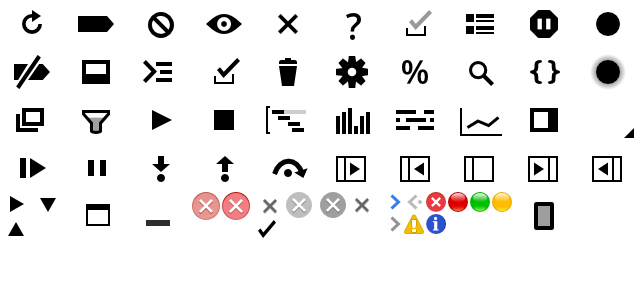
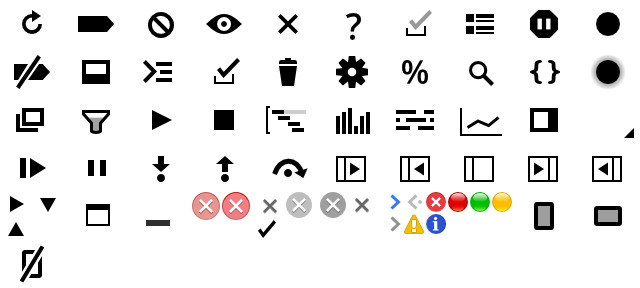
[DevTools] Added portrait and landscape screencast layouts.
BUG=311249

Review URL: https://codereview.chromium.org/107193009

git-svn-id: svn://svn.chromium.org/blink/trunk@164793 bbb929c8-8fbe-4397-9dbb-9b2b20218538

Changed region(s): [[0.9062, 0.6875, 0.9688, 0.8125], [0.0312, 0.8438, 0.0938, 0.9688]]

diff --git a/front_end/ScreencastView.js b/front_end/ScreencastView.js
@@ -32,63 +32,13 @@
  * @constructor
  * @extends {WebInspector.View}
  * @implements {WebInspector.DOMNodeHighlighter}
+ * @param {!Element} statusBarButtonPlaceholder
  */
-WebInspector.ScreencastView = function()
+WebInspector.ScreencastView = function(statusBarButtonPlaceholder)
 {
     WebInspector.View.call(this);
     this.registerRequiredCSS("screencastView.css");
-
-    this.element.classList.add("fill");
-    this.element.classList.add("screencast");
-
-    this._createNavigationBar();
-
-    this._viewportElement = this.element.createChild("div", "screencast-viewport hidden");
-    this._glassPaneElement = this.element.createChild("div", "screencast-glasspane hidden");
-
-    this._canvasElement = this._viewportElement.createChild("canvas");
-    this._canvasElement.tabIndex = 1;
-    this._canvasElement.addEventListener("mousedown", this._handleMouseEvent.bind(this), false);
-    this._canvasElement.addEventListener("mouseup", this._handleMouseEvent.bind(this), false);
-    this._canvasElement.addEventListener("mousemove", this._handleMouseEvent.bind(this), false);
-    this._canvasElement.addEventListener("mousewheel", this._handleMouseEvent.bind(this), false);
-    this._canvasElement.addEventListener("click", this._handleMouseEvent.bind(this), false);
-    this._canvasElement.addEventListener("contextmenu", this._handleContextMenuEvent.bind(this), false);
-    this._canvasElement.addEventListener("keydown", this._handleKeyEvent.bind(this), false);
-    this._canvasElement.addEventListener("keyup", this._handleKeyEvent.bind(this), false);
-    this._canvasElement.addEventListener("keypress", this._handleKeyEvent.bind(this), false);
-
-    this._titleElement = this._viewportElement.createChild("div", "screencast-element-title monospace hidden");
-    this._tagNameElement = this._titleElement.createChild("span", "screencast-tag-name");
-    this._nodeIdElement = this._titleElement.createChild("span", "screencast-node-id");
-    this._classNameElement = this._titleElement.createChild("span", "screencast-class-name");
-    this._titleElement.appendChild(document.createTextNode(" "));
-    this._nodeWidthElement = this._titleElement.createChild("span");
-    this._titleElement.createChild("span", "screencast-px").textContent = "px";
-    this._titleElement.appendChild(document.createTextNode(" \u00D7 "));
-    this._nodeHeightElement = this._titleElement.createChild("span");
-    this._titleElement.createChild("span", "screencast-px").textContent = "px";
-
-    this._imageElement = new Image();
-    this._isCasting = false;
-    this._context = this._canvasElement.getContext("2d");
-    this._checkerboardPattern = this._createCheckerboardPattern(this._context);
-
-    this._shortcuts = /** !Object.<number, function(Event=):boolean> */ ({});
-    this._shortcuts[WebInspector.KeyboardShortcut.makeKey("l", WebInspector.KeyboardShortcut.Modifiers.Ctrl)] = this._focusNavigationBar.bind(this);
-
-    WebInspector.resourceTreeModel.addEventListener(WebInspector.ResourceTreeModel.EventTypes.ScreencastFrame, this._screencastFrame, this);
-    WebInspector.resourceTreeModel.addEventListener(WebInspector.ResourceTreeModel.EventTypes.ScreencastVisibilityChanged, this._screencastVisibilityChanged, this);
-
-    WebInspector.timelineManager.addEventListener(WebInspector.TimelineManager.EventTypes.TimelineStarted, this._onTimeline.bind(this, true), this);
-    WebInspector.timelineManager.addEventListener(WebInspector.TimelineManager.EventTypes.TimelineStopped, this._onTimeline.bind(this, false), this);
-    this._timelineActive = WebInspector.timelineManager.isStarted();
-
-    WebInspector.cpuProfilerModel.addEventListener(WebInspector.CPUProfilerModel.EventTypes.ProfileStarted, this._onProfiler.bind(this, true), this);
-    WebInspector.cpuProfilerModel.addEventListener(WebInspector.CPUProfilerModel.EventTypes.ProfileStopped, this._onProfiler.bind(this, false), this);
-    this._profilerActive = WebInspector.cpuProfilerModel.isRecordingProfile();
-
-    this._updateGlasspane();
+    this._statusBarButtonPlaceholder = statusBarButtonPlaceholder;
 }
 
 WebInspector.ScreencastView._bordersSize = 40;
@@ -98,6 +48,84 @@ WebInspector.ScreencastView._navBarHeight = 29;
 WebInspector.ScreencastView._HttpRegex = /^https?:\/\/(.+)/;
 
 WebInspector.ScreencastView.prototype = {
+    initialize: function()
+    {
+        this.element.classList.add("fill");
+        this.element.classList.add("screencast");
+
+        this._createNavigationBar();
+
+        this._viewportElement = this.element.createChild("div", "screencast-viewport hidden");
+        this._glassPaneElement = this.element.createChild("div", "screencast-glasspane hidden");
+
+        this._canvasElement = this._viewportElement.createChild("canvas");
+        this._canvasElement.tabIndex = 1;
+        this._canvasElement.addEventListener("mousedown", this._handleMouseEvent.bind(this), false);
+        this._canvasElement.addEventListener("mouseup", this._handleMouseEvent.bind(this), false);
+        this._canvasElement.addEventListener("mousemove", this._handleMouseEvent.bind(this), false);
+        this._canvasElement.addEventListener("mousewheel", this._handleMouseEvent.bind(this), false);
+        this._canvasElement.addEventListener("click", this._handleMouseEvent.bind(this), false);
+        this._canvasElement.addEventListener("contextmenu", this._handleContextMenuEvent.bind(this), false);
+        this._canvasElement.addEventListener("keydown", this._handleKeyEvent.bind(this), false);
+        this._canvasElement.addEventListener("keyup", this._handleKeyEvent.bind(this), false);
+        this._canvasElement.addEventListener("keypress", this._handleKeyEvent.bind(this), false);
+
+        this._titleElement = this._viewportElement.createChild("div", "screencast-element-title monospace hidden");
+        this._tagNameElement = this._titleElement.createChild("span", "screencast-tag-name");
+        this._nodeIdElement = this._titleElement.createChild("span", "screencast-node-id");
+        this._classNameElement = this._titleElement.createChild("span", "screencast-class-name");
+        this._titleElement.appendChild(document.createTextNode(" "));
+        this._nodeWidthElement = this._titleElement.createChild("span");
+        this._titleElement.createChild("span", "screencast-px").textContent = "px";
+        this._titleElement.appendChild(document.createTextNode(" \u00D7 "));
+        this._nodeHeightElement = this._titleElement.createChild("span");
+        this._titleElement.createChild("span", "screencast-px").textContent = "px";
+
+        this._imageElement = new Image();
+        this._isCasting = false;
+        this._context = this._canvasElement.getContext("2d");
+        this._checkerboardPattern = this._createCheckerboardPattern(this._context);
+
+        this._shortcuts = /** !Object.<number, function(Event=):boolean> */ ({});
+        this._shortcuts[WebInspector.KeyboardShortcut.makeKey("l", WebInspector.KeyboardShortcut.Modifiers.Ctrl)] = this._focusNavigationBar.bind(this);
+
+        WebInspector.resourceTreeModel.addEventListener(WebInspector.ResourceTreeModel.EventTypes.ScreencastFrame, this._screencastFrame, this);
+        WebInspector.resourceTreeModel.addEventListener(WebInspector.ResourceTreeModel.EventTypes.ScreencastVisibilityChanged, this._screencastVisibilityChanged, this);
+
+        WebInspector.timelineManager.addEventListener(WebInspector.TimelineManager.EventTypes.TimelineStarted, this._onTimeline.bind(this, true), this);
+        WebInspector.timelineManager.addEventListener(WebInspector.TimelineManager.EventTypes.TimelineStopped, this._onTimeline.bind(this, false), this);
+        this._timelineActive = WebInspector.timelineManager.isStarted();
+
+        WebInspector.cpuProfilerModel.addEventListener(WebInspector.CPUProfilerModel.EventTypes.ProfileStarted, this._onProfiler.bind(this, true), this);
+        WebInspector.cpuProfilerModel.addEventListener(WebInspector.CPUProfilerModel.EventTypes.ProfileStopped, this._onProfiler.bind(this, false), this);
+        this._profilerActive = WebInspector.cpuProfilerModel.isRecordingProfile();
+
+        this._updateGlasspane();
+
+        this._currentScreencastState = WebInspector.settings.createSetting("currentScreencastState", "");
+        this._lastScreencastState = WebInspector.settings.createSetting("lastScreencastState", "");
+        this._toggleScreencastButton = new WebInspector.StatusBarStatesSettingButton(
+            "screencast-status-bar-item",
+            ["disabled", "left", "top"],
+            [WebInspector.UIString("Disable screencast."), WebInspector.UIString("Switch to portrait screencast."), WebInspector.UIString("Switch to landscape screencast.")],
+            this._currentScreencastState,
+            this._lastScreencastState,
+            this._toggleScreencastButtonClicked.bind(this));
+        this._statusBarButtonPlaceholder.parentElement.insertBefore(this._toggleScreencastButton.element, this._statusBarButtonPlaceholder);
+        this._statusBarButtonPlaceholder.parentElement.removeChild(this._statusBarButtonPlaceholder);
+    },
+
+    /**
+     * @param {string} state
+     */
+    _toggleScreencastButtonClicked: function(state)
+    {
+        if (state === "disabled")
+            WebInspector.inspectorView.hideScreencastView();
+        else
+            WebInspector.inspectorView.showScreencastView(this, state === "left");
+    },
+
     wasShown: function()
     {
         this._startCasting();

diff --git a/front_end/inspector.js b/front_end/inspector.js
@@ -60,20 +60,15 @@ var WebInspector = {
         if (this.inspectElementModeController)
             this.inspectorView.appendToLeftToolbar(this.inspectElementModeController.toggleSearchButton.element);
 
-        if (Capabilities.canScreencast) {
-            this._toggleScreencastButton = new WebInspector.StatusBarButton(WebInspector.UIString("Toggle screencast."), "screencast-status-bar-item");
-            this._toggleScreencastButton.addEventListener("click", this._toggleScreencastButtonClicked.bind(this), false);
-            this.inspectorView.appendToLeftToolbar(this._toggleScreencastButton.element);
-        }
-
         this.inspectorView.appendToRightToolbar(this.settingsController.statusBarItem);
         if (this.dockController.element)
             this.inspectorView.appendToRightToolbar(this.dockController.element);
 
-        var closeButtonToolbarItem = document.createElementWithClass("div", "toolbar-close-button-item");
-        var closeButtonElement = closeButtonToolbarItem.createChild("div", "close-button");
-        closeButtonElement.addEventListener("click", WebInspector.close.bind(WebInspector), true);
-        this.inspectorView.appendToRightToolbar(closeButtonToolbarItem);
+        if (Capabilities.canScreencast) {
+            var placeholder = document.createElement("div");
+            this._screencastView = new WebInspector.ScreencastView(placeholder);
+            this.inspectorView.appendToRightToolbar(placeholder);
+        }
     },
 
     /**
@@ -83,21 +78,6 @@ var WebInspector = {
     {
         return !!WebInspector.queryParamsObject["remoteFrontend"];
     },
-
-    _toggleScreencastButtonClicked: function()
-    {
-        this._toggleScreencastButton.toggled = !this._toggleScreencastButton.toggled;
-        WebInspector.settings.screencastEnabled.set(this._toggleScreencastButton.toggled);
-
-        if (this._toggleScreencastButton.toggled) {
-            if (!this._screencastView)
-                this._screencastView = new WebInspector.ScreencastView();
-            this.inspectorView.showScreencastView(this._screencastView);
-        } else {
-            this.inspectorView.hideScreencastView();
-        }
-    },
-
 
     showConsole: function()
     {
@@ -409,9 +389,8 @@ WebInspector._doLoadedDoneWithCapabilities = function()
     WebInspector.WorkerManager.loadCompleted();
     InspectorFrontendAPI.loadCompleted();
 
-    if (Capabilities.canScreencast && WebInspector.settings.screencastEnabled.get())
-        this._toggleScreencastButtonClicked();
-
+    if (Capabilities.canScreencast)
+        this._screencastView.initialize();
     WebInspector.notifications.dispatchEventToListeners(WebInspector.Events.InspectorLoaded);
 }
 

diff --git a/front_end/InspectorView.js b/front_end/InspectorView.js
@@ -73,6 +73,11 @@ WebInspector.InspectorView = function()
     this._errorWarningCountElement = this._rightToolbarElement.createChild("div", "hidden");
     this._errorWarningCountElement.id = "error-warning-count";
 
+    this._closeButtonToolbarItem = document.createElementWithClass("div", "toolbar-close-button-item");
+    var closeButtonElement = this._closeButtonToolbarItem.createChild("div", "close-button");
+    closeButtonElement.addEventListener("click", WebInspector.close.bind(WebInspector), true);
+    this._rightToolbarElement.appendChild(this._closeButtonToolbarItem);
+
     this._drawer = new WebInspector.Drawer(this);
     this.appendToRightToolbar(this._drawer.toggleButtonElement());
 
@@ -111,7 +116,7 @@ WebInspector.InspectorView.prototype = {
      */
     appendToRightToolbar: function(element)
     {
-        this._rightToolbarElement.appendChild(element);
+        this._rightToolbarElement.insertBefore(element, this._closeButtonToolbarItem);
     },
 
     /**
@@ -454,12 +459,13 @@ WebInspector.InspectorView.prototype = {
 
     /**
      * @param {!WebInspector.View} view
+     * @param {boolean} vertical
      */
-    showScreencastView: function(view)
+    showScreencastView: function(view, vertical)
     {
-        this._splitView.setVertical(true);
         if (view.parentView() !== this._overlayView)
             view.show(this._overlayView.element);
+        this._splitView.setVertical(vertical);
         this._splitView.showBoth();
     },
 

diff --git a/front_end/Settings.js b/front_end/Settings.js
@@ -112,8 +112,6 @@ WebInspector.Settings = function()
     this.showWhitespacesInEditor = this.createSetting("showWhitespacesInEditor", false);
     this.skipStackFramesSwitch = this.createSetting("skipStackFramesSwitch", false);
     this.skipStackFramesPattern = this.createSetting("skipStackFramesPattern", "");
-    this.screencastEnabled = this.createSetting("screencastEnabled", false);
-    this.screencastSidebarWidth = this.createSetting("screencastSidebarWidth", 300);
     this.showEmulationViewInDrawer = this.createSetting("showEmulationViewInDrawer", true);
     this.showRenderingViewInDrawer = this.createSetting("showRenderingViewInDrawer", true);
     this.enableAsyncStackTraces = this.createSetting("enableAsyncStackTraces", false);

diff --git a/front_end/inspector.css b/front_end/inspector.css
@@ -672,8 +672,16 @@ body.remote .dock-status-bar-item {
     -webkit-mask-position: -64px -24px;
 }
 
-.screencast-status-bar-item .glyph {
+.screencast-status-bar-item.toggled-left .glyph {
     -webkit-mask-position: -256px -96px;
+}
+
+.screencast-status-bar-item.toggled-top .glyph {
+    -webkit-mask-position: -288px -96px;
+}
+
+.screencast-status-bar-item.toggled-disabled .glyph {
+    -webkit-mask-position: 0px -120px;
 }
 
 .clear-status-bar-item .glyph {
